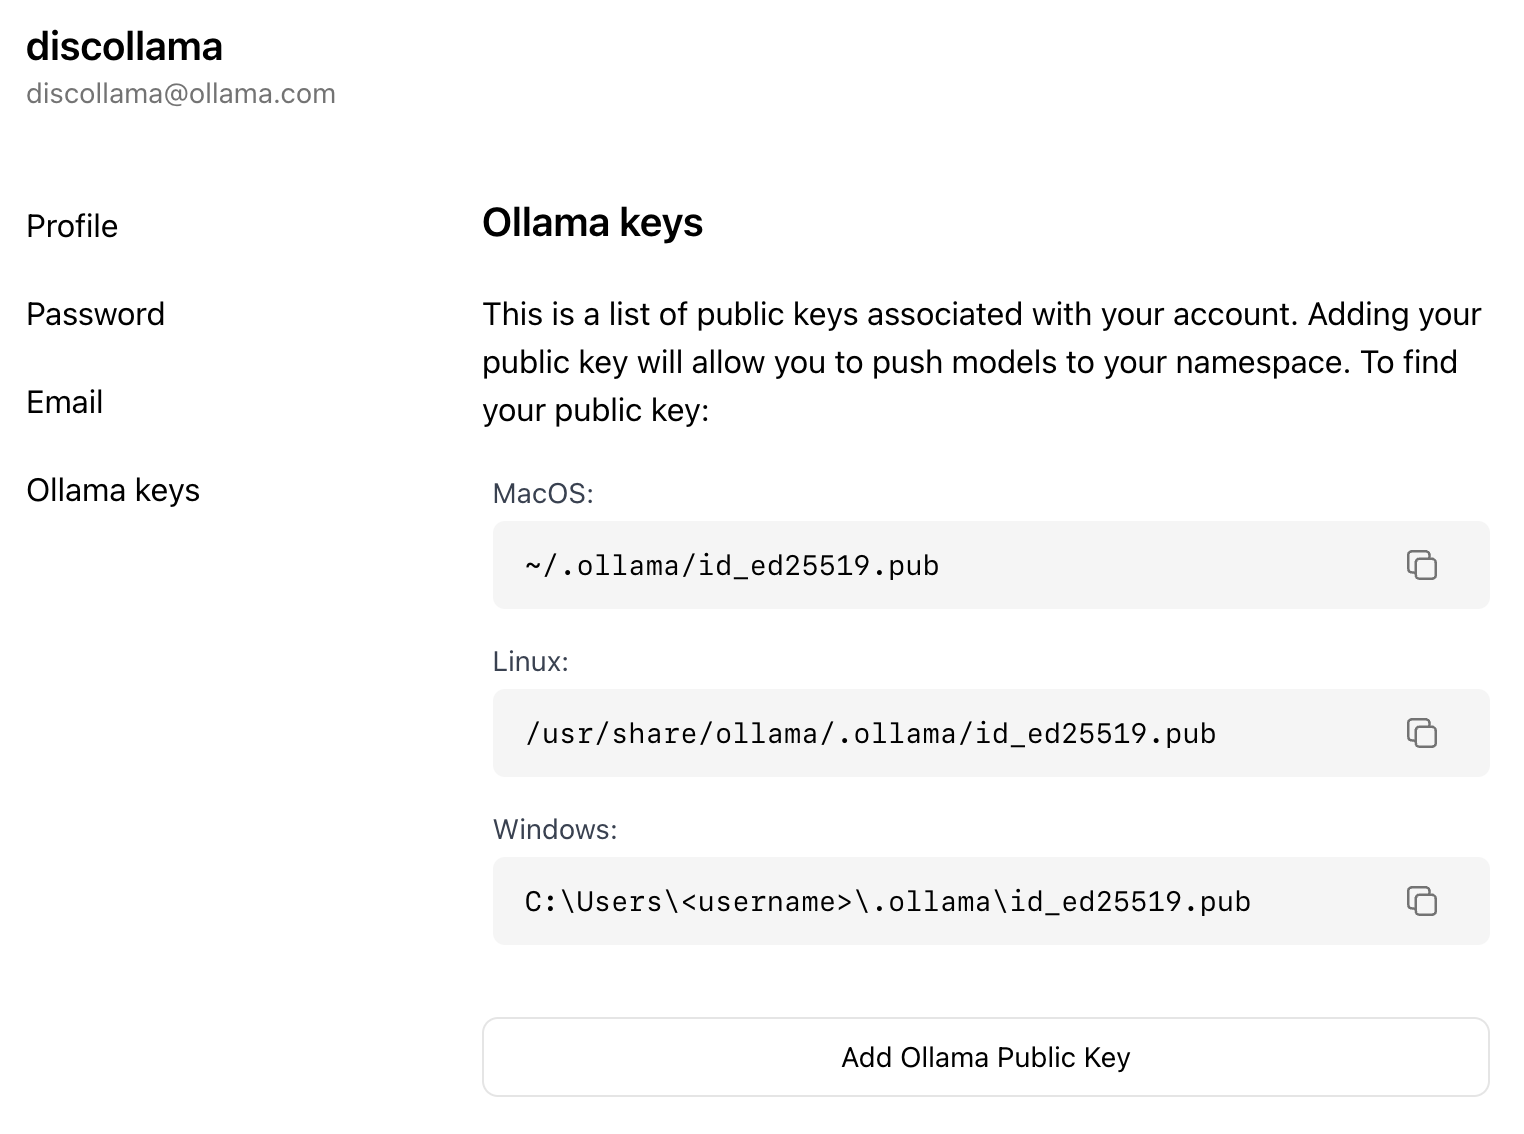
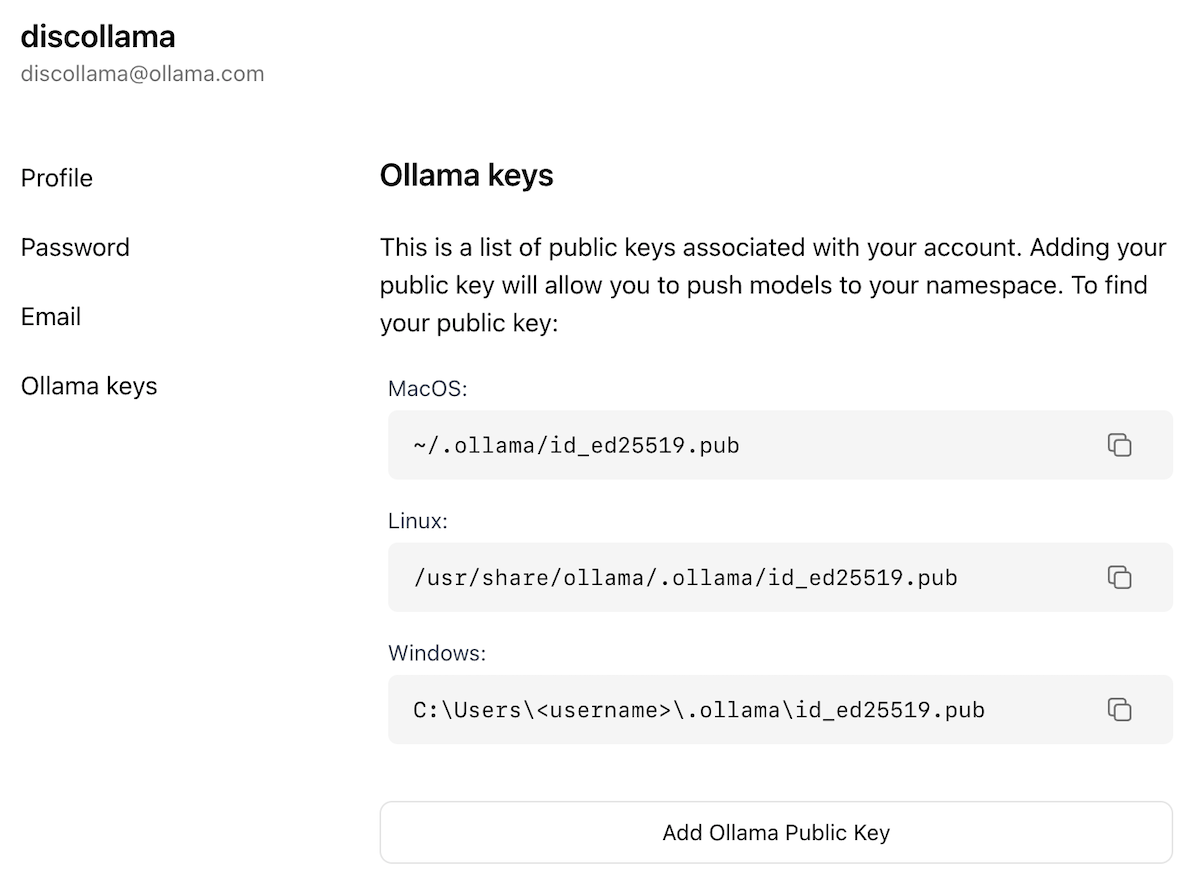
Fix import image width (#6528)

diff --git a/docs/import.md b/docs/import.md
@@ -5,7 +5,7 @@
   * [Importing a Safetensors adapter](#Importing-a-fine-tuned-adapter-from-Safetensors-weights)
   * [Importing a Safetensors model](#Importing-a-model-from-Safetensors-weights)
   * [Importing a GGUF file](#Importing-a-GGUF-based-model-or-adapter)
-  * [Sharing models on ollama.com](#Sharing-your-model-on-ollama.com)
+  * [Sharing models on ollama.com](#Sharing-your-model-on-ollamacom)
 
 ## Importing a fine tuned adapter from Safetensors weights
 
@@ -158,7 +158,7 @@ You can share any model you have created by pushing it to [ollama.com](https://o
 
 First, use your browser to go to the [Ollama Sign-Up](https://ollama.com/signup) page. If you already have an account, you can skip this step.
 
-<img src="images/signup.png" alt="Sign-Up" width="756" height="1192">
+<img src="images/signup.png" alt="Sign-Up" width="40%">
 
 The `Username` field will be used as part of your model's name (e.g. `jmorganca/mymodel`), so make sure you are comfortable with the username that you have selected.
 
@@ -166,7 +166,7 @@ Now that you have created an account and are signed-in, go to the [Ollama Keys S
 
 Follow the directions on the page to determine where your Ollama Public Key is located.
 
-<img src="images/ollama-keys.png" alt="Ollama Keys" width="1524" height="1134">
+<img src="images/ollama-keys.png" alt="Ollama Keys" width="80%">
 
 Click on the `Add Ollama Public Key` button, and copy and paste the contents of your Ollama Public Key into the text field.
 
